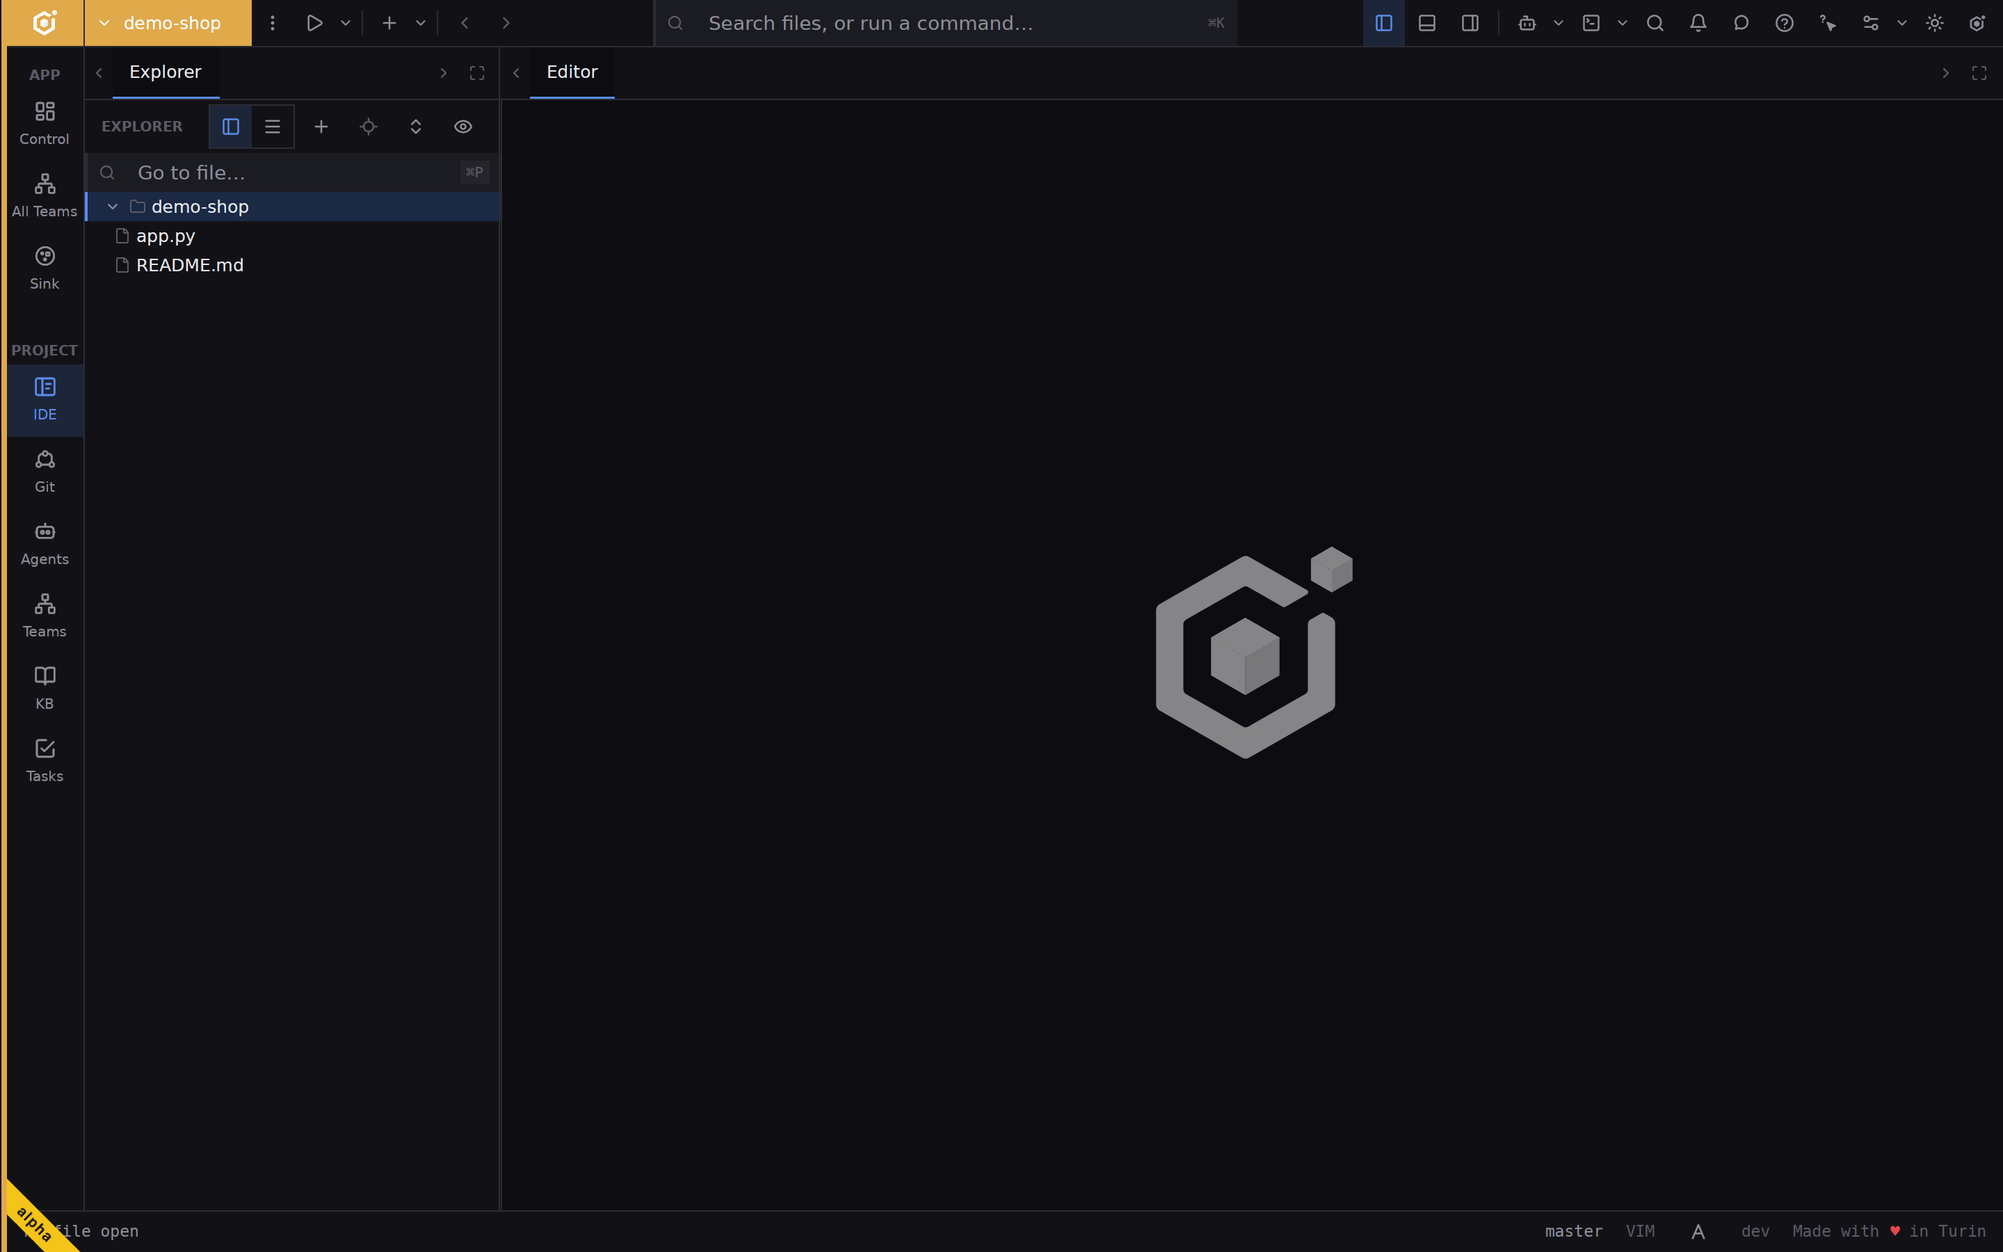
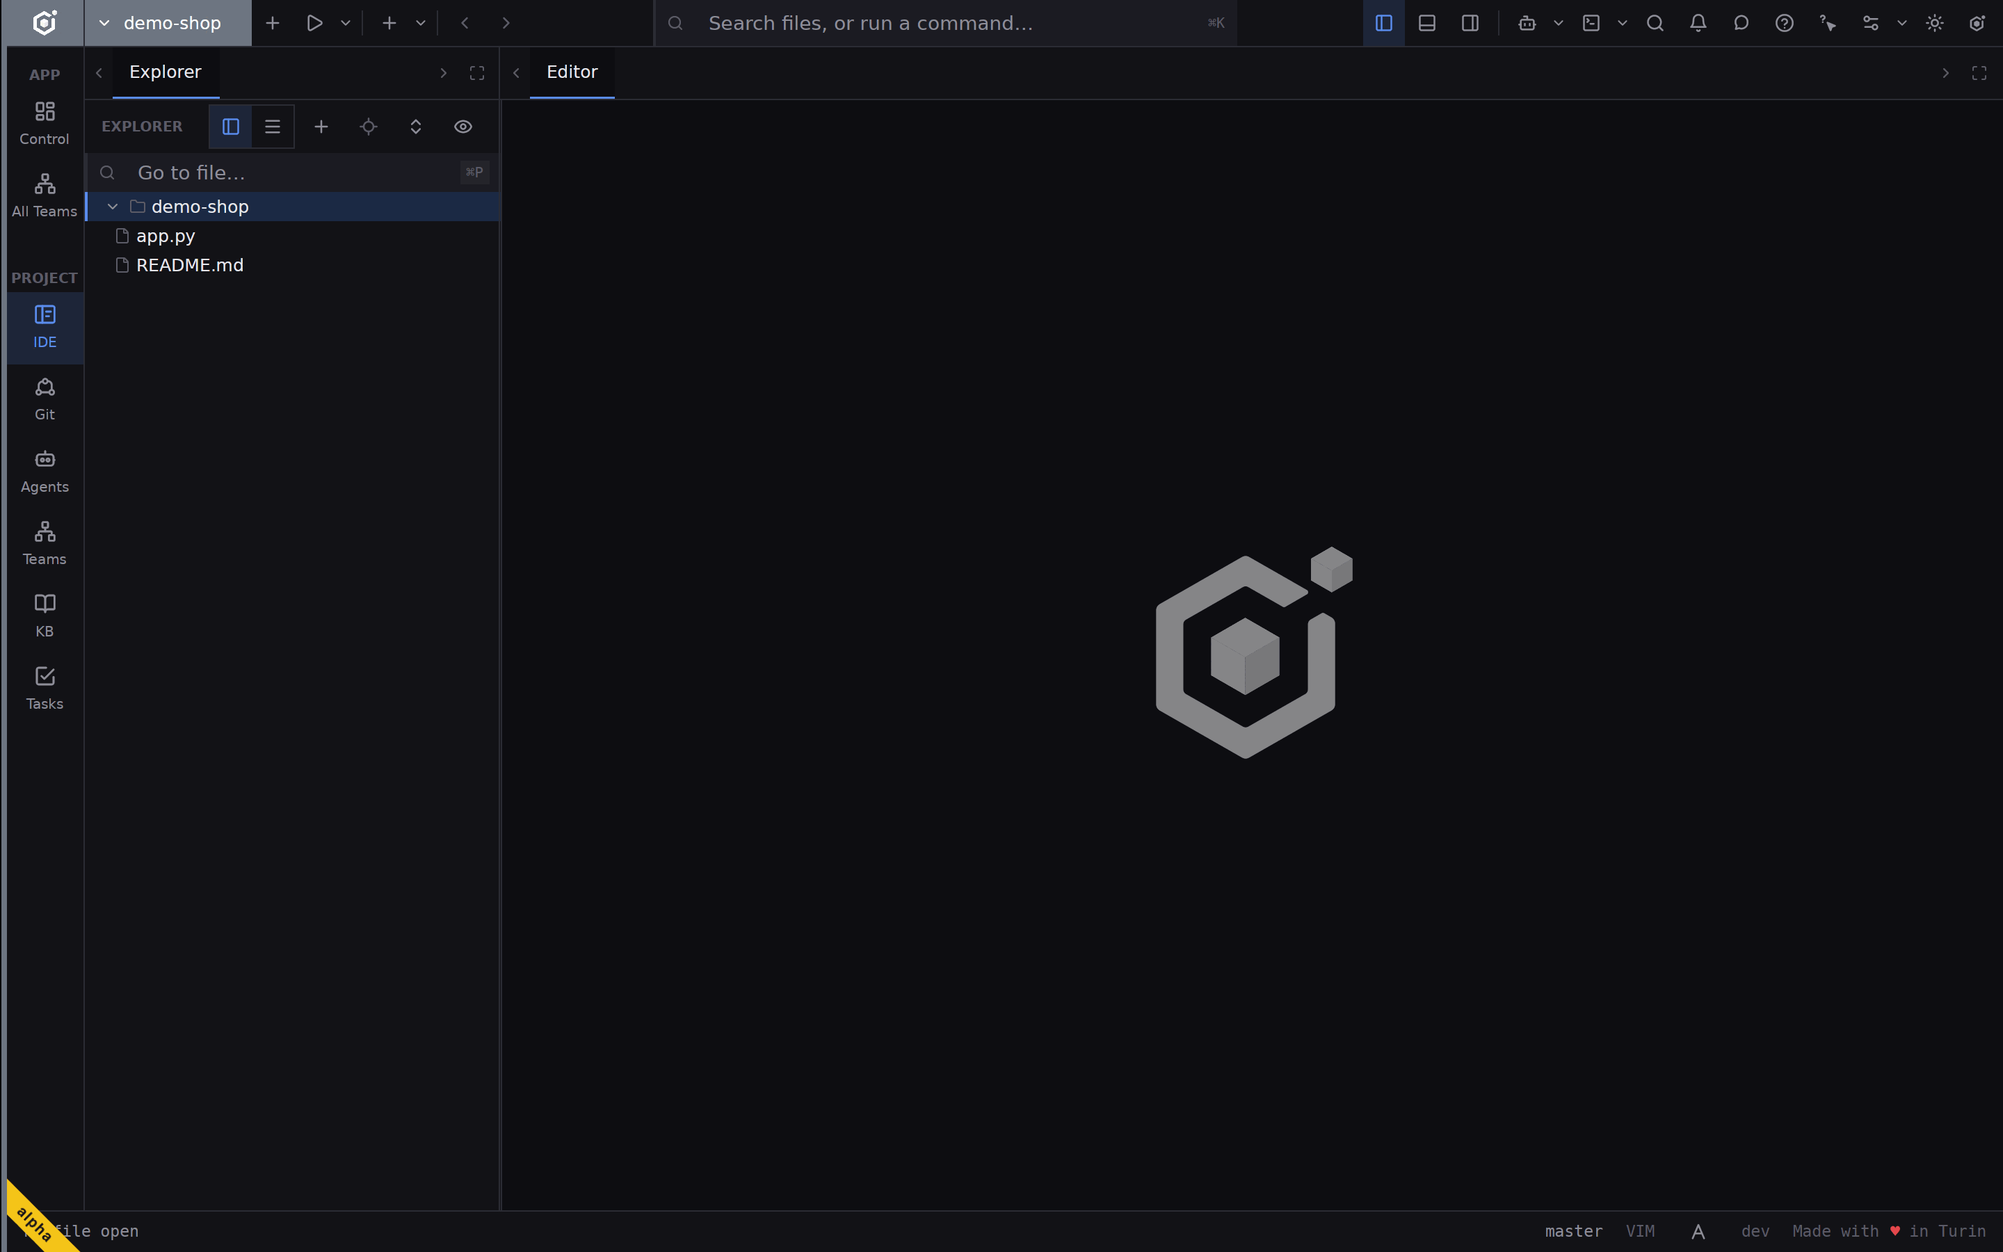
help: correct the reference pages from the running build, retake the full-window shot without Sink, review the guides
Claude-Session: https://claude.ai/code/session_01Yah9x15QJh4ic6n3uyRfY3

Changed region(s): [[0.0, 0.1867, 0.0625, 0.6533], [0.0, 0.0, 0.125, 0.0622]]

diff --git a/help/agents/new-agent.md b/help/agents/new-agent.md
@@ -8,20 +8,20 @@ status: current
 related: [agents-starting, agents-accounts, agents-definitions, agents-permissions]
 ---
 
-The dialog opens from **New agent** in [Agents mode](agents-starting), from the chat strip's **+** and from the
-kitchen sink. It asks everything a start needs in one form. Everything below the first row is faint and takes no
-click until you have chosen what to run.
+The dialog opens from **New agent** in [Agents mode](agents-starting) and from the chat strip's **+**. It asks
+everything a start needs in one form. Everything below the first row is faint and takes no click until you have
+chosen what to run.
 
 ## The parts
 
 | Part | What it does |
 |---|---|
-| **Agents** tab | Your saved [agent definitions](agents-definitions), one row each, as `name — harness · model · level`; project ones first, then global ones |
-| **Harness** tab | A harness and the [account](agents-accounts) it runs as; moving between the tabs starts the answer again |
+| **Agents** tab | An **Agent** dropdown of your saved [agent definitions](agents-definitions), one row each, as `name — harness · model · level`; with both kinds, **This project** ones come first, then **Global** ones |
+| **Harness** tab | A **Harness** dropdown: a harness and the [account](agents-accounts) it runs as; moving between the tabs starts the answer again |
 | **Customize** | Under a chosen definition; turns the harness, **Model**, **Thinking effort** and **Mode** rows on for this one start |
 | **Model**, **Thinking effort** | What the harness offers; the dialog opens on the last launch, else the harness's own default |
-| **Mode** | The permission mode, in the harness's own labels; see [permission modes](agents-permissions) |
-| **Persistent** | Keeps the conversation across a restart of Ubiq; dimmed for a harness that keeps its history outside Ubiq |
+| **Mode** | The permission mode, in the harness's own labels; a new agent opens on the harness's unattended mode, such as **Bypass permissions** for Claude Code; see [permission modes](agents-permissions) |
+| **Persistent** | A checkbox that keeps the conversation across a restart of Ubiq; dimmed, and its note says why, for a harness that keeps its history outside Ubiq |
 | **Max subagents** | How many subagents the agent may use; the agent is told it, not given a switch |
 | **Ask for feedback**, **Plan mode** | Shown only when the dialog opens from a task's **Assign to an agent**; each changes what the initial prompt tells the agent — to ask when it needs to, or to plan before it acts |
 | **Initial prompt** | Sent as the agent's first message, so it starts working without a keystroke |
@@ -32,13 +32,14 @@ click until you have chosen what to run.
 | **Save agent** | Saves these answers as an agent definition; offered when the target is a bare harness |
 
 The **Harness** tab lists **Configured** rows (a harness with an account signed in), then **Default** rows, which
-use the harness's own configuration in place. A harness whose program is missing is drawn dimmed. A harness with
-no conversation view, such as Grok, is not offered here. The ACP versions of Claude Code
+use the harness's own configuration in place. Every harness Ubiq supports is listed; one whose program is missing
+is drawn dimmed and cannot be picked. The ACP versions of Claude Code
 and Codex appear only after you turn on their **Enable … ACP** switch in [Settings](settings-harnesses).
 
 ## What you can do here
 
-- Start from your last choice: the dialog opens on it for the project, else on the last start anywhere.
+- Start from your last choice: the dialog opens on it for the project, else on the last start anywhere,
+  with the **Mode** you used then.
 - Name an agent. Ubiq names it after its harness, with a number from the second one on. After the agent answers its
   first prompt it takes a short title of its own, if a provider is set up in [Settings](settings-assist). Rename it
   from its tab to keep your name for good.

diff --git a/help/guides/query-a-database.md b/help/guides/query-a-database.md
@@ -22,13 +22,13 @@ A project is open and you have a database to look at: PostgreSQL, MySQL or Maria
 
 ![The Modes row of the project settings, with the DB tile lit beside IDE, Git, Agents, Teams, KB and Tasks](../img/guides/query-a-database-1.png)
 
-2. Pick **DB** on the rail and press **Add connection** in the **Databases** panel; it opens the project's settings on **Databases**, where you press **Add connection** again. Pick the **Engine**. For SQLite, press **Browse…** to choose the file, or **New database…** to make an empty one. To fill the form from an address, paste a connection string into **Connection string** and press **Parse**.
-3. Give the connection a **Name**, such as `shop`, and press **Test**. It connects without saving and reports `Connected` with the server's version. Leave access on **Read-only** for a first look, so every tab on the connection refuses writes. Press **Save**, then **Save changes**.
+2. Pick **DB** on the rail. On the empty screen press **Add connection**; it opens the project's settings on **Databases**, where you press **Add connection** again. (Once a connection exists, the **+** in the **Databases** panel opens the form directly.) Pick the **Engine**. For SQLite, press **Browse…** to choose the file, or **New database…** to make an empty one. To fill the form from an address, paste a connection string into **Connection string** and press **Parse**.
+3. Give the connection a **Name**, such as `shop`, and press **Test**. It connects without saving and reports `Connected` with the server's version. Turn **Read-only** on under **Access** for a first look, so every tab on the connection refuses writes. Press **Save**, then **Save changes**.
 
 ![The Add connection form for SQLite with the name shop, read-only access and the result Connected with a version number](../img/guides/query-a-database-2.png)
 
 4. Back in the **Databases** panel, right-click the connection and pick **Connect**. Open it down through the database to **Tables**, and double-click a table to read its data in the centre. A **Read-only** mark shows on the tab, and a count of rows under the filters.
-5. Right-click the table and pick **Open in SQL editor**. A tab opens with a starting query. Click in it, select the text and write your own, for example `SELECT name, price FROM products WHERE stock < 20 ORDER BY price DESC`. Press **Run**, or **⌘↵** / **Ctrl+↵**, to run the selection or the statement the cursor is in. The rows appear under the editor with their count and the time taken.
+5. Right-click the table and pick **Open in SQL editor**. A tab opens with a starting query. Click in it, select the text and write your own, for example `SELECT name, price FROM products WHERE stock < 20 ORDER BY price DESC`. Press **Run**, or **⌘Enter** / **Ctrl+Enter**, to run the selection or the statement the cursor is in. The rows appear under the editor with their count and the time taken.
 
 ![The SQL editor with a query above and its two result rows below, with Run, Run all, Explain and Analyze across the top](../img/guides/query-a-database-3.png)
 

diff --git a/help/db/overview.md b/help/db/overview.md
@@ -31,15 +31,21 @@ a project asks for it: open the project's settings, go to **General**, and light
 | **Run**, **Run all**, **Explain**, **Analyze**, **Stop** | The SQL tab's toolbar |
 | **READ-ONLY** | Marks a tab that cannot write |
 
-Right-click a row for its menu: **Connect**, **Disconnect**, **New SQL editor**, **Refresh**,
-**Edit connection…** and **Remove** on a connection; **Open data** and **Open in SQL editor** on a
-table or view; **Copy name** on most rows.
+Right-click a row for its menu. A connection that is not connected offers **Connect**, **Edit
+connection…** and **Remove**; once connected it offers **New SQL editor**, **Refresh**,
+**Disconnect**, the DBML rows, **Edit connection…** and **Remove**. A table or view offers **Open
+data**, **Open in SQL editor**, **Copy name**, **Refresh** and the DBML rows; **DBML: Copy to
+clipboard** puts the schema on the clipboard, and **DBML: Open in new file** opens it as a file.
 
 ## What you can do here
 
 - Add a connection: fill in the form, or paste a connection string and press **Parse**. **Test**
   connects and reports the server version without saving. For SQLite pick a file, or choose
-  **New database…**. Tick **Read-only** to make every tab on the connection refuse writes.
+  **New database…**. Tick **Read-only** to make every tab on the connection refuse writes. On the
+  empty screen, **Add connection** opens the project's settings instead, where the same form is.
+- Decide what agents may do with a connection: in the form, **Agents** is **None**, **Read-only** or
+  **Read-write**; **Read-write** is dimmed on a read-only connection. **Default for agents** marks
+  the connection an agent gets when it names none; one per project, and it needs some access.
 - Edit a table: double-click a cell, or press **Enter** or **F2**; **Backspace** in an empty field makes
   the cell NULL. **Apply** sends all pending changes as one batch and undoes them all if one fails.
 - Run SQL: **Run** (**⌘Enter** / **Ctrl+Enter**) runs the selection or the statement the cursor is in;

diff --git a/help/git/diff.md b/help/git/diff.md
@@ -1,7 +1,7 @@
 ---
 id: git-diff
 title: The Diff panel
-summary: How the diff under the history compares a path or a commit, and the split and unified views.
+summary: How the diff beside the history compares a path or a commit, and the split and unified views.
 keywords: [diff, hunk, comparison, side by side, unified, split]
 context: [panel.ubiq.git.diff]
 order: 50
@@ -9,7 +9,7 @@ status: current
 related: [git-changes, git-history, git-compare-commits]
 ---
 
-The Diff panel sits under the history in [Git mode](git-overview) and shows what a changed path
+The Diff panel is a tab beside **History** in [Git mode](git-overview) and shows what a changed path
 changed. It comes forward when you pick a path in [Changes](git-changes) or in a commit's file list.
 Its header names the path and holds the view controls.
 
@@ -20,7 +20,7 @@ Its header names the path and holds the view controls.
 | The path | Which file the comparison is about |
 | **split** | Draws the old and new text side by side |
 | **unified** | Draws one column, removed lines then added lines |
-| The chevron at the right | Shuts the panel so the history gets the whole height, or opens it again |
+| The chevron at the right | Folds the comparison away, leaving only the header, or opens it again |
 | The body | Added, removed and unchanged lines, with line numbers |
 
 ## What is compared
@@ -43,7 +43,6 @@ What the panel shows depends on the list the path is in:
 ## When something goes wrong
 
 - **Pick a changed path to compare it** — nothing is selected yet; click a row in Changes.
-- **Reading…** stays while Ubiq waits for the comparison; the last path's text is never left
-  under the new name.
+- **Reading…** stays while Ubiq waits for the comparison.
 - **The panel asks for another path** when the one you were reading has no changes left, for
   instance after you discard it.

diff --git a/help/guides/accounts-and-definitions.md b/help/guides/accounts-and-definitions.md
@@ -24,7 +24,7 @@ The harness you work with is installed. You know the logins you will use, one pe
 ![The Add harness dialog with Claude Code selected and the name client-a typed](../img/guides/accounts-and-definitions-1.png)
 
 3. Repeat for the next client with another name. One name can sign in to several harnesses, and every agent running as that name shares the login. Under each account, a harness row shows its login status with **Check**, **Re-authenticate** and **Sign out**, and a plan readout where the provider states limits.
-4. Open **Agent definitions** in Settings and press **Add agent**. Type a **Name** for the role, such as `reviewer`, pick the **Harness**, and set **Model**, **Thinking effort** and **Mode**. Where you have signed accounts in, the **Harness** row offers the harness under each account, so the definition pins the client as well as the role. Add a **Description** so you remember what it is for.
+4. Open **Agent definitions** in Settings and press **Add agent**. Type a **Name** for the role, such as `reviewer`, pick the **Harness**, and set **Model**, **Thinking effort** and **Mode**. Where an account is signed in, the **Harness** row offers the harness under each account, so the definition pins the client as well as the role. Add a **Description** so you remember what it is for.
 
 ![The agent definition form with the name reviewer, Claude Code as the harness, Plan as the mode and a one-line description](../img/guides/accounts-and-definitions-2.png)
 

diff --git a/help/guides/two-agents-side-by-side.md b/help/guides/two-agents-side-by-side.md
@@ -26,7 +26,7 @@ A project is open and one harness works for you; [Your first project and your fi
 
 4. Read both. A column's header names the agent, its harness and its model, and the footer under the transcript shows what the turn has spent. Colours read the same everywhere: yellow needs you, blue is working, green is idle, grey has stopped. The sidebar on the left lists both agents with the same marks.
 5. To read one answer under the other, drag one tab onto the other column. The two share a column with a tab each, and the strip reads `1 grouped`. Drag a tab past the last column to give it a column of its own again.
-6. When you have chosen, put the other agent away. A column's tab **×** hides the agent and leaves it running, and **Close all** takes every agent off screen without ending any; the sidebar still lists them, and clicking a row brings one back. To end an agent for good, open its three-dots menu and pick **Close**, which asks first and deletes its transcript.
+6. When you have chosen, put the other agent away. A column's tab **×** puts the agent on the bench, off screen and still running, and **Close all** does the same for every agent; the sidebar still lists them, and clicking a row brings one back. [Agents mode](agents-starting) describes the bench. To end an agent for good, open its three-dots menu and pick **Close**, which asks first and deletes its transcript.
 
 ## What next
 

diff --git a/help/agents/starting.md b/help/agents/starting.md
@@ -36,9 +36,18 @@ Eight columns fit the row. Grouping into a column that is already open always wo
 - Hide a tab without ending the agent: see [hide or close a tab](how-to-hide-or-close-a-tab).
 - Change how much an agent may do unasked: see [permission modes](agents-permissions).
 
-The same **New agent** menu is on the chat strip in IDE mode and in the kitchen sink, so starting an agent is
-not tied to this screen. Closing a column's tab hides the agent; the agent keeps running and the sidebar still
-lists it. Ending an agent for good is the three-dots menu in [the conversation](agents-conversation).
+The same **New agent** menu is on the chat strip in IDE mode, so starting an agent is not tied to this screen.
+Ending an agent for good is the three-dots menu in [the conversation](agents-conversation).
+
+## The bench
+
+A column tab's **×** says **Put on the bench**. The bench is where an agent waits off screen: it keeps running, and
+the sidebar still lists it with its name in a muted shade. Pick its row in the sidebar, use **+** on a column, or
+use **Attach existing agent** to put it back on screen.
+
+With no column open, the screen reads **No columns**. Under it, **Nothing is running in this project yet.** means
+the project has no agent; **Every agent is on the bench. Pick one in the list to open a column.** means all of them
+are waiting off screen.
 
 ## When something goes wrong
 

diff --git a/help/settings/harnesses.md b/help/settings/harnesses.md
@@ -41,7 +41,8 @@ decides what an agent may reach. Both are sections of [Settings](settings). What
 - **A sign-in has expired.** Open its row under **Identities** and use **Re-authenticate**.
 - **A harness is missing from the start menus.** If it is a registry version of a tool that has a
   native one, turn on its **Enable … ACP** switch.
-- **Confinement is off and says why.** It is available on macOS and Windows only; agents on other
-  systems run unconfined.
+- **The confinement switch is dimmed and does nothing.** A line above it reads **Confinement is macOS
+  and Windows only — agents here run unconfined**; on macOS and Windows it reads **Confinement
+  available on this machine** instead.
 - **A confined agent cannot find its tools.** Its home holds nothing you installed; use **Your
   home**, or add the tool's folder under **Extra grants**.

diff --git a/help/git/overview.md b/help/git/overview.md
@@ -12,7 +12,8 @@ related: [git-changes, git-history, git-refs, git-diff, guides-review-and-commit
 
 Pick **Git** on the rail to read a project's repository without leaving the window your agents work
 in. The first visit puts **Branches** on the left, **History** in the centre and **Changes** on the
-right; **Diff** comes forward under the history when you pick a changed path. Every region can be
+right. **Diff** is a tab beside **History** and comes forward when you pick a changed path. Chat tabs
+open in the right region too, so an open chat tab shares its group with **Changes**. Every panel can be
 moved, hidden or resized like any other, as [panels](workbench-panels) explain.
 
 ## The parts

diff --git a/help/index.md b/help/index.md
@@ -14,6 +14,8 @@ Ubiq is one window that runs several AI coding agents side by side, each in its 
 
 New to Ubiq? Read [Getting started](getting-started): it takes you from the first launch to one agent working in one project.
 
+![The Ubiq window with a project open: the rail on the left, the project's files in the explorer and the editor beside it](img/start/index-1.png)
+
 ## The manual, section by section
 
 - **Start** — [Getting started](getting-started): the first launch, a first project and a first agent.

diff --git a/help/guides/review-and-commit.md b/help/guides/review-and-commit.md
@@ -40,4 +40,4 @@ An agent has changed files in a project that is a git repository. [Your first pr
 
 - [The Changes panel](git-changes), for amending a commit and for the right-click menu.
 - [The Git screen](git-overview), for branches, pull and push.
-- [Comparing two commits](git-compare-commits), when you want to see what a whole session of agent work added.
+- [Comparing two commits](git-compare-commits), when you want to see what a whole stretch of agent work added.

diff --git a/help/kb/sources.md b/help/kb/sources.md
@@ -14,7 +14,8 @@ every source, with **Add source** under them.
 
 ## The parts
 
-**Add source** opens a form with these rows. Rows that do not apply to the chosen kind are inert.
+**Add source** opens a form. Until you choose a **Kind**, it shows only **Name**, **Kind** and **Access**, and
+**Access** is dimmed; the other rows below appear once a kind is chosen, for the kinds that need them.
 
 | Row | What it does |
 |---|---|
